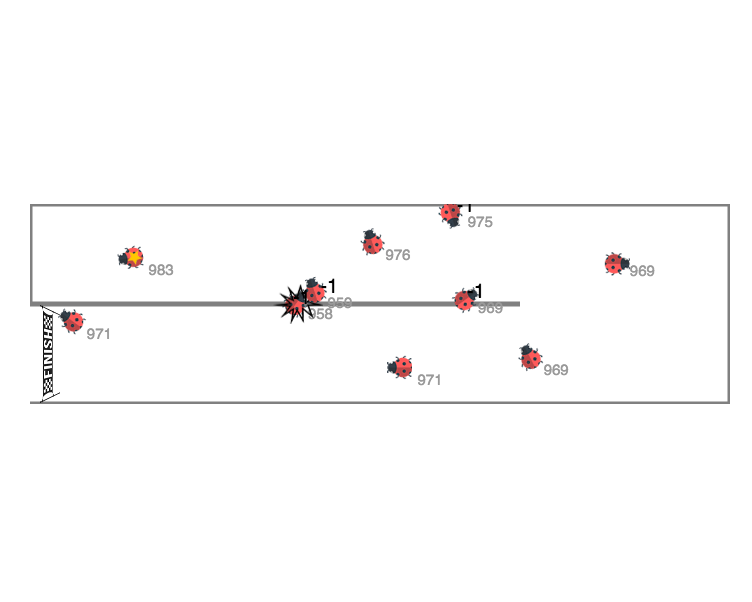
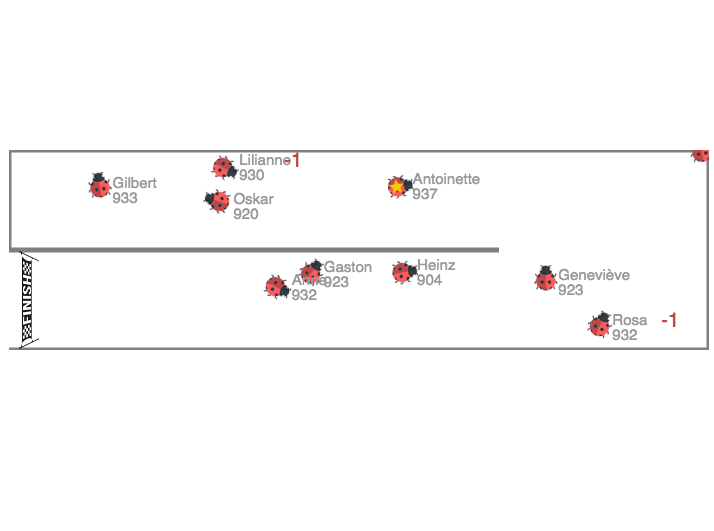
New og-image

Changed region(s): [[0.0, 0.2712, 1.0, 0.693], [0.7395, 0.4821, 0.8936, 0.5725], [0.8011, 0.4218, 0.8627, 0.4821]]

diff --git a/beetles/index.html b/beetles/index.html
@@ -9,8 +9,8 @@
     <link rel="icon" href="https://mühlemann.ch/favicon.ico">
     <meta property="og:url" content="https://xn--mhlemann-65a.ch/reinforcejs/beetles/">
     <meta property="og:title" content="You have a neural network in your browser">
-    <meta property="og:image:width" content="752">
-    <meta property="og:image:height" content="602">
+    <meta property="og:image:width" content="714">
+    <meta property="og:image:height" content="531">
     <meta property="og:description"
           content="An AI experiment: Watch beetles learn how to crawl through a small racetrack.">
     <meta property="og:image" content="https://xn--mhlemann-65a.ch/reinforcejs/beetles/img/og-image.png?2">
